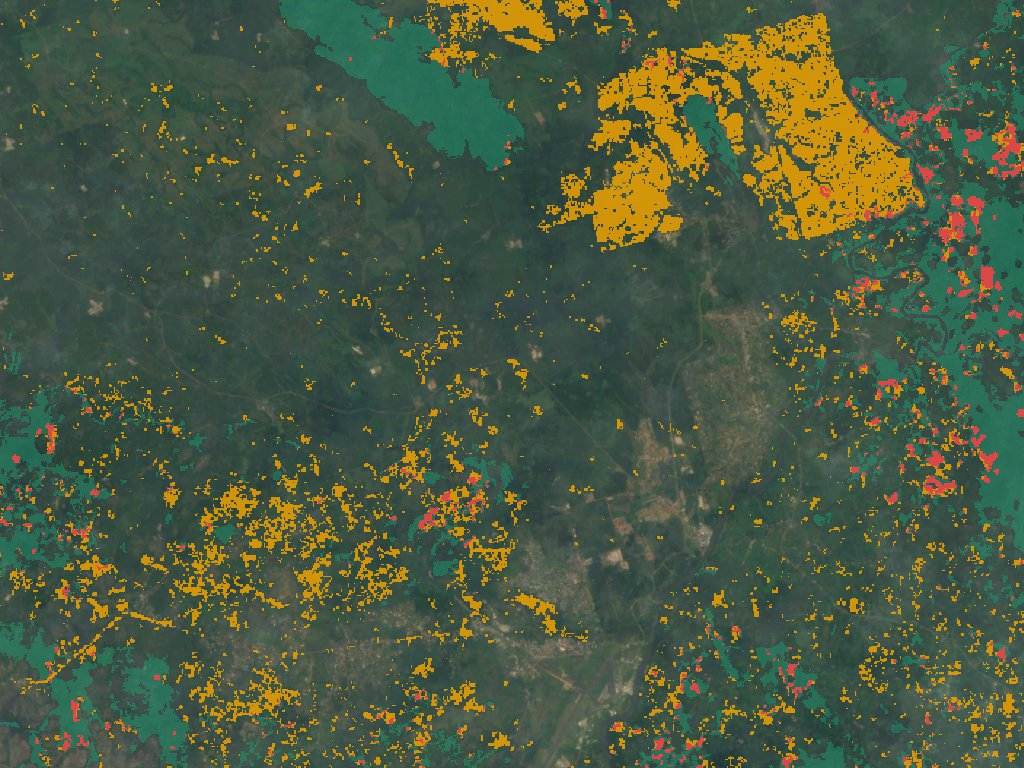
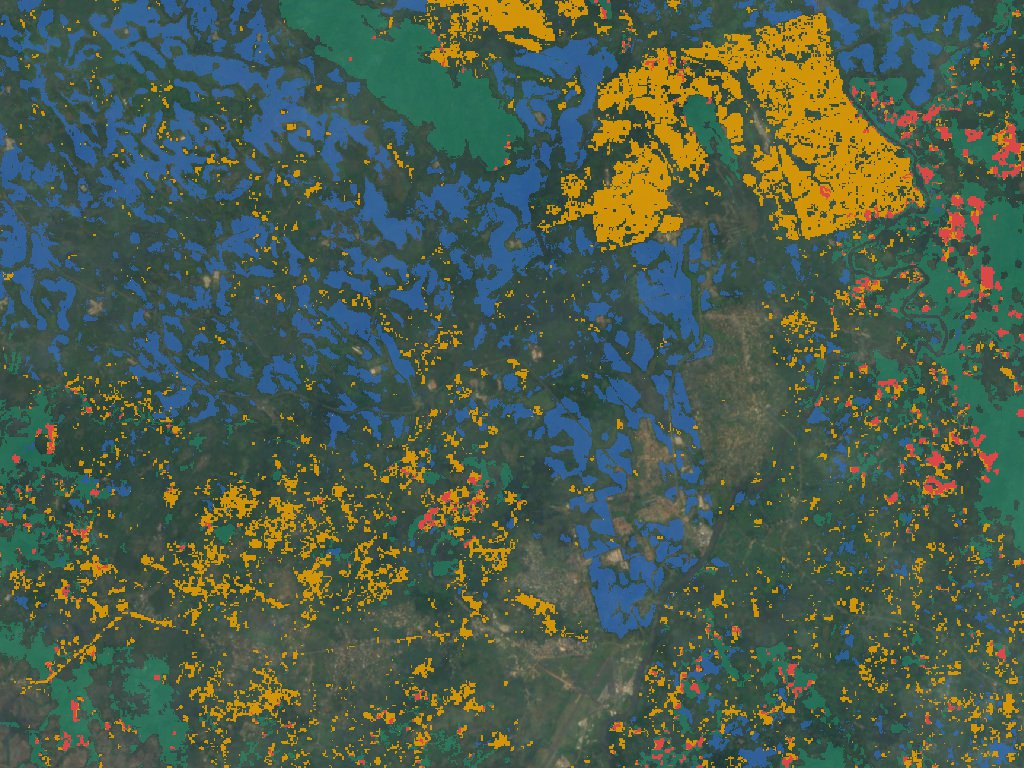
Indicateur EUDR des bassins v1.1 : carte de l'hévéa (Forest Data Partnership)
- Outil eudr_bassins.R : lecture partielle de la carte de probabilité d'hévéa
  FDP 2026a (10 m, 2020 et 2024) sur le stockage Google « requester pays »
  (projet Google Cloud de RubberSignal, compte gcloud, aucun fichier de clé ;
  en-tête d'accès posé après JRC/Hansen et retiré aussitôt). Seuil 0,5.
- Nouvelles mesures : hévéa 2020 et 2024, nouvel hévéa, nouvel hévéa sur
  forêt 2020. Chiffres v1 inchangés. Relances automatiques en cas de coupure.
- Site : couche bleue « hévéa » sur les vues, deux indicateurs et trois
  colonnes dans le terminal, mention « Produced by Google for the Forest
  Data Partnership » (CC BY 4.0), page Méthode et journal des versions.
- Tests : sources, cohérence des surfaces, absence de jeton publié.

diff --git a/site/methode.html b/site/methode.html
@@ -81,12 +81,17 @@ Gap to CI           = (origin price ÷ Côte d'Ivoire price, same month) − 1</
     <p><span lang="fr">Production, superficie récoltée et rendement du caoutchouc naturel (FAOSTAT, produit 836) pour les producteurs africains, les grands producteurs asiatiques et les totaux monde, Afrique et Asie, depuis 2000. La FAO publie une fois par an ; la chaîne ne télécharge que si une nouvelle publication est parue. Chaque valeur garde le drapeau de la FAO : valeur officielle ou d'organisation internationale (nature O), estimation ou imputation de la FAO (nature E).</span><span lang="en">Natural rubber production, harvested area and yield (FAOSTAT, item 836) for African producers, the main Asian producers and the world, Africa and Asia totals, since 2000. FAO publishes once a year; the pipeline downloads only when a new release is out. Each value keeps its FAO flag: official or international-organisation value (nature O), FAO estimate or imputation (nature E).</span></p>
     <p><span lang="fr"><strong>Vues satellite :</strong> mosaïque Sentinel-2 sans nuages EOxCloudless 2016 (10 m), la plus récente sous licence libre (les années suivantes sont réservées à un usage non commercial). Les images sont enregistrées sur le site : le visiteur ne contacte aucun serveur tiers. Chaque vue est centrée sur des coordonnées publiques et vérifiée à l'œil ; sa légende décrit ce qui est visible et cite la source qui identifie le site. Ces images montrent le paysage de 2016 ; elles ne servent ni à mesurer une surface ni à vérifier une conformité EUDR.</span><span lang="en"><strong>Satellite views:</strong> the EOxCloudless 2016 cloud-free Sentinel-2 mosaic (10 m), the latest under an open licence (later years are for non-commercial use only). Images are stored on the site: visitors contact no third-party server. Each view is centred on public coordinates and checked by eye; its caption describes what is visible and cites the source identifying the site. These images show the 2016 landscape; they are not used to measure areas or to check EUDR compliance.</span></p>
 
-    <h3 id="eudr"><span lang="fr">2 quater. Indicateur de risque EUDR des bassins (v1)</span><span lang="en">2c. Basin EUDR risk indicator (v1)</span></h3>
+    <h3 id="eudr"><span lang="fr">2 quater. Indicateur de risque EUDR des bassins (v1.1)</span><span lang="en">2c. Basin EUDR risk indicator (v1.1)</span></h3>
     <div class="formula"><span lang="fr">Forêt 2020        = JRC Global Forest Cover 2020 v4 = forêt (10 m)
 Perte après 2020  = Hansen Global Forest Change v1.12, année de perte 2021 à 2024 (30 m)
-Indicateur EUDR   = surface « forêt 2020 » ET « perte après 2020 », en ha et en % de la forêt 2020</span><span lang="en">2020 forest       = JRC Global Forest Cover 2020 v4 = forest (10 m)
+Indicateur EUDR   = surface « forêt 2020 » ET « perte après 2020 », en ha et en % de la forêt 2020
+Hévéa (année a)   = probabilité Forest Data Partnership 2026a ≥ 0,5 (10 m), a = 2020 et 2024
+Nouvel hévéa sur forêt 2020 = « forêt 2020 » ET hévéa 2024 ET pas hévéa 2020, en ha</span><span lang="en">2020 forest       = JRC Global Forest Cover 2020 v4 = forest (10 m)
 Loss after 2020   = Hansen Global Forest Change v1.12, loss year 2021 to 2024 (30 m)
-EUDR indicator    = area "2020 forest" AND "loss after 2020", in ha and % of 2020 forest</span></div>
+EUDR indicator    = area "2020 forest" AND "loss after 2020", in ha and % of 2020 forest
+Rubber (year y)   = Forest Data Partnership 2026a probability ≥ 0.5 (10 m), y = 2020 and 2024
+New rubber on 2020 forest = "2020 forest" AND rubber 2024 AND not rubber 2020, in ha</span></div>
+    <p><span lang="fr"><strong>Couche hévéa (v1.1).</strong> La carte de probabilité de l'hévéa du Forest Data Partnership (modèle 2026a, produite par Google pour le Forest Data Partnership, CC BY 4.0) localise les plantations elles-mêmes. Le seuil de 0,5 est un choix de RubberSignal Technologies : le catalogue n'en recommande aucun. Le « nouvel hévéa sur forêt 2020 » repère une plantation probable établie sur une forêt après la date de référence EUDR ; c'est la mesure la plus directe du risque propre au caoutchouc. <strong>Limites :</strong> une probabilité de modèle n'est pas une observation de terrain ; un jeune hévéa peut être mal détecté ; l'écart entre 2020 et 2024 mêle plantations nouvelles, replantations et erreurs du modèle.</span><span lang="en"><strong>Rubber layer (v1.1).</strong> The Forest Data Partnership rubber probability map (model 2026a, produced by Google for the Forest Data Partnership, CC BY 4.0) locates the plantations themselves. The 0.5 threshold is a RubberSignal Technologies choice: the catalogue recommends none. "New rubber on 2020 forest" flags a probable plantation established on forest after the EUDR cut-off date; it is the most direct measure of rubber-specific risk. <strong>Limits:</strong> a model probability is not a field observation; young rubber may be missed; the 2020–2024 difference mixes new plantings, replanting and model errors.</span></p>
     <p><span lang="fr">Calculé dans un carré d'environ 28 000 ha autour de chaque bassin (l'emprise de la vue satellite), sur la grille JRC. La carte JRC est la carte de référence publiée par la Commission pour l'EUDR (non contraignante) ; elle ne classe pas les plantations d'hévéa en forêt. Une perte après 2020 hors forêt 2020 correspond surtout aux replantations et aux cultures. <strong>Limites :</strong> le carré dépasse les limites de toute exploitation et l'indicateur ne désigne aucun acteur ; une perte de couvert n'est pas une preuve de déforestation (coupe, chablis, erreur de classement) ; résolutions différentes (10 et 30 m). C'est un indicateur de risque pour orienter une diligence raisonnée, pas une vérification de conformité.</span><span lang="en">Calculated within a square of about 28,000 ha around each basin (the satellite view footprint), on the JRC grid. The JRC map is the reference map published by the Commission for the EUDR (non-binding); it does not class rubber plantations as forest. Loss after 2020 outside 2020 forest is mostly replanting and crops. <strong>Limits:</strong> the square extends beyond any single operation and the indicator points to no actor; tree cover loss is not proof of deforestation (felling, windthrow, misclassification); different resolutions (10 and 30 m). It is a risk indicator to guide due diligence, not a compliance check.</span></p>
 
     <h2 id="rsci"><span lang="fr">3. RSCI : part du prix international reçue par le planteur (v2.1)</span><span lang="en">3. RSCI: share of the international price received by the farmer (v2.1)</span></h2>
@@ -120,6 +125,7 @@ RSCI (%) = dry farmer price ÷ World Bank TSR20 of the previous month × 100</sp
         <tr><td class="l">EOxCloudless 2016 (EOX IT Services, <span lang="fr">données Copernicus Sentinel</span><span lang="en">Copernicus Sentinel data</span>)</td><td class="l"><span lang="fr">Vues satellite</span><span lang="en">Satellite views</span></td><td class="l">CC BY 4.0</td></tr>
         <tr><td class="l"><span lang="fr">Commission européenne, JRC (forêt 2020, v4)</span><span lang="en">European Commission, JRC (2020 forest, v4)</span></td><td class="l"><span lang="fr">Carte de référence EUDR</span><span lang="en">EUDR reference map</span></td><td class="l">CC BY 4.0 (doi:10.2905/JRC.3KATEH8)</td></tr>
         <tr><td class="l">University of Maryland, Hansen et al. (Global Forest Change v1.12)</td><td class="l"><span lang="fr">Pertes de couvert arboré par an</span><span lang="en">Yearly tree cover loss</span></td><td class="l">CC BY 4.0</td></tr>
+        <tr><td class="l">Forest Data Partnership (Community models 2026a)</td><td class="l"><span lang="fr">Probabilité d'hévéa, 10 m (produite par Google pour le Forest Data Partnership)</span><span lang="en">Rubber probability, 10 m (produced by Google for the Forest Data Partnership)</span></td><td class="l">CC BY 4.0</td></tr>
         <tr><td class="l">Natural Earth</td><td class="l"><span lang="fr">Fond de carte</span><span lang="en">Base map</span></td><td class="l"><span lang="fr">Domaine public</span><span lang="en">Public domain</span></td></tr>
         <tr><td class="l"><span lang="fr">Google News, éditeurs (flux RSS)</span><span lang="en">Google News, publishers (RSS feeds)</span></td><td class="l"><span lang="fr">Titres d'actualité</span><span lang="en">News headlines</span></td><td class="l"><span lang="fr">Titre, éditeur et lien seulement</span><span lang="en">Headline, publisher and link only</span></td></tr>
         <tr><td class="l">Open-Meteo</td><td class="l"><span lang="fr">Météo</span><span lang="en">Weather</span></td><td class="l">CC BY 4.0</td></tr>
@@ -141,6 +147,7 @@ RSCI (%) = dry farmer price ÷ World Bank TSR20 of the previous month × 100</sp
     <div class="scroll"><table class="data">
       <thead><tr><th class="l">Version</th><th class="l">Date</th><th class="l"><span lang="fr">Changement</span><span lang="en">Change</span></th></tr></thead>
       <tbody>
+        <tr><td class="l"><span lang="fr">EUDR bassins v1.1</span><span lang="en">EUDR basins v1.1</span></td><td class="l">2026-11-26</td><td class="l wrapc"><span lang="fr">Ajout de la carte de l'hévéa (Forest Data Partnership 2026a, seuil 0,5) : surfaces d'hévéa 2020 et 2024, nouvel hévéa sur forêt 2020, couleur bleue sur les vues. Chiffres de la v1 inchangés.</span><span lang="en">Rubber map added (Forest Data Partnership 2026a, 0.5 threshold): rubber area 2020 and 2024, new rubber on 2020 forest, blue layer on the views. v1 figures unchanged.</span></td></tr>
         <tr><td class="l"><span lang="fr">EUDR bassins v1</span><span lang="en">EUDR basins v1</span></td><td class="l">2026-11-18</td><td class="l wrapc"><span lang="fr">Création : forêt 2020 (JRC v4) croisée avec les pertes de couvert 2021-2024 (Hansen v1.12) dans quatre bassins ; couches sur les vues satellite.</span><span lang="en">Creation: 2020 forest (JRC v4) crossed with 2021-2024 tree cover loss (Hansen v1.12) in four basins; layers on the satellite views.</span></td></tr>
         <tr><td class="l"><span lang="fr">Production FAOSTAT v1</span><span lang="en">FAOSTAT Production v1</span></td><td class="l">2026-11-18</td><td class="l wrapc"><span lang="fr">Création : production, surface et rendement par pays (FAOSTAT, depuis 2000), carte des pays producteurs, vues satellite EOxCloudless 2016 de quatre bassins.</span><span lang="en">Creation: production, area and yield by country (FAOSTAT, since 2000), map of producing countries, EOxCloudless 2016 satellite views of four basins.</span></td></tr>
         <tr><td class="l"><span lang="fr">Simulateur de budget v1</span><span lang="en">Budget simulator v1</span></td><td class="l">2026-11-18</td><td class="l wrapc"><span lang="fr">Création : coût d'un programme d'achats mensuels, sans tendance, sur la volatilité v1 du TSR20 Banque mondiale.</span><span lang="en">Creation: cost of a monthly purchase programme, drift-free, on the World Bank TSR20 volatility v1.</span></td></tr>

diff --git a/site/assets/rs-terminal.js b/site/assets/rs-terminal.js
@@ -384,6 +384,7 @@
     var lien = $('sat-lien'); lien.href = src; lien.title = t('Ouvrir l’image en taille réelle', 'Open the full-size image');
     var lg = clear($('sat-leg-eudr')); lg.hidden = !eudr;
     if (eudr) [['eudr-foret', t('forêt au 31/12/2020 (JRC)', 'forest on 31/12/2020 (JRC)')],
+               ['eudr-hevea', t('hévéa en 2024 (Forest Data Partnership)', 'rubber in 2024 (Forest Data Partnership)')],
                ['eudr-rouge', t('perte de couvert après 2020 sur cette forêt', 'tree cover loss after 2020 on that forest')],
                ['eudr-jaune', t('perte après 2020 hors forêt (plantations, cultures)', 'loss after 2020 outside forest (plantations, crops)')]].forEach(function (x) {
       var s = RS.el('span', null, null, lg); RS.el('i', x[0], null, s); RS.el('span', null, x[1], s);
@@ -392,7 +393,7 @@
       : t(z.legende_fr, z.legende_en)) + t(' Largeur de l’image : environ ', ' Image width: about ') + RS.num(z.largeur_km, 0) +
       t(' km. Cliquez sur l’image pour la voir en taille réelle.', ' km. Click the image to see it full size.');
     var cr = clear($('sat-credit'));
-    RS.el('span', null, t('Image : ', 'Image: ') + P.satellite_credit + (eudr ? '. ' + E.sources.foret + '. ' + E.sources.pertes : '') +
+    RS.el('span', null, t('Image : ', 'Image: ') + P.satellite_credit + (eudr ? '. ' + E.sources.foret + '. ' + E.sources.pertes + (E.sources.hevea ? '. ' + E.sources.hevea : '') : '') +
       t('. Position : ', '. Location: ') + z.coordonnees + '. ', cr);
     if (!eudr) { var a = RS.el('a', null, t('Source sur ce site de production', 'Source on this production site'), cr);
                  a.href = z.source; a.rel = 'noopener noreferrer nofollow'; a.target = '_blank'; }
@@ -415,6 +416,12 @@
       RS.pct(eb.part_perte_foret_pct, 1) + t(' de la forêt 2020 (Hansen, 2021-2024)', ' of 2020 forest (Hansen, 2021-2024)'), 'E');
     kpi(k, t('Perte après 2020 hors forêt', 'Loss after 2020 outside forest'), RS.num(eb.perte_apres_2020_hors_foret_ha, 0), 'ha',
       t('plantations, cultures, jachères : non visées par l’EUDR comme déforestation', 'plantations, crops, fallows: not EUDR deforestation'), 'E');
+    if (eb.hevea_2024_ha != null) {
+      kpi(k, t('Hévéa en 2024', 'Rubber in 2024'), RS.int(eb.hevea_2024_ha), 'ha',
+        RS.pct(eb.part_hevea_2024_pct, 1) + t(' du carré ; ', ' of the square; ') + RS.int(eb.hevea_2020_ha) + t(' ha en 2020 (FDP)', ' ha in 2020 (FDP)'), 'E');
+      kpi(k, t('Nouvel hévéa sur forêt 2020', 'New rubber on 2020 forest'), RS.num(eb.hevea_nouveau_sur_foret_2020_ha, 1), 'ha',
+        t('plantation probable sur une forêt après la date de référence EUDR', 'probable planting on forest after the EUDR cut-off date'), 'E');
+    }
     var ans = Object.keys(eb.perte_par_an);
     C.bars($('eudr-bars'), {
       x: ans, xFmt: function (a) { return String(a); }, values: ans.map(function (a) { return eb.perte_par_an[a]; }), color: 'var(--s1)',
@@ -430,8 +437,11 @@
       { label: t('Perte après 2020 sur forêt (ha)', 'Loss after 2020 on forest (ha)'), get: function (b) { return RS.num(b.perte_apres_2020_foret_ha, 0); } },
       { label: t('en % de la forêt 2020', '% of 2020 forest'), get: function (b) { return RS.pct(b.part_perte_foret_pct, 1); } },
       { label: t('Perte après 2020 hors forêt (ha)', 'Loss after 2020 outside forest (ha)'), get: function (b) { return RS.num(b.perte_apres_2020_hors_foret_ha, 0); } },
-      { label: t('Perte 2001-2020 (ha)', 'Loss 2001-2020 (ha)'), get: function (b) { return RS.int(b.perte_2001_2020_ha); } }
-    ], E.bassins, t('Les quatre zones (nature E : calcul RubberSignal Technologies sur données JRC et UMD)', 'The four areas (nature E: RubberSignal Technologies calculation on JRC and UMD data)'), true);
+      { label: t('Perte 2001-2020 (ha)', 'Loss 2001-2020 (ha)'), get: function (b) { return RS.int(b.perte_2001_2020_ha); } },
+      { label: t('Hévéa 2020 (ha)', 'Rubber 2020 (ha)'), get: function (b) { return b.hevea_2020_ha == null ? '–' : RS.int(b.hevea_2020_ha); } },
+      { label: t('Hévéa 2024 (ha)', 'Rubber 2024 (ha)'), get: function (b) { return b.hevea_2024_ha == null ? '–' : RS.int(b.hevea_2024_ha); } },
+      { label: t('Nouvel hévéa sur forêt 2020 (ha)', 'New rubber on 2020 forest (ha)'), get: function (b) { return b.hevea_nouveau_sur_foret_2020_ha == null ? '–' : RS.num(b.hevea_nouveau_sur_foret_2020_ha, 1); } }
+    ], E.bassins, t('Les quatre zones (nature E : calcul RubberSignal Technologies sur données JRC, UMD et Forest Data Partnership)', 'The four areas (nature E: RubberSignal Technologies calculation on JRC, UMD and Forest Data Partnership data)'), true);
   }
   document.addEventListener('click', function (ev) {
     var b = ev.target.closest ? ev.target.closest('[data-sat-mode]') : null;

diff --git a/site/terminal.html b/site/terminal.html
@@ -177,8 +177,8 @@
         <div id="eudr-bars"></div>
         <div id="t-eudr"></div>
         <div class="callout">
-          <span lang="fr"><strong>Ce que cet indicateur dit, et ce qu'il ne dit pas.</strong> Il mesure, dans un carré d'environ 28 000 ha autour de chaque bassin, la surface classée forêt au 31/12/2020 par la carte de référence de la Commission (JRC) qui a perdu son couvert arboré ensuite (Hansen, UMD). Le carré dépasse les limites de toute exploitation : l'indicateur ne désigne aucun acteur. Une perte de couvert n'est pas une preuve de déforestation (coupe, chablis, erreur de classement). C'est un indicateur de risque pour orienter une diligence raisonnée EUDR, qui reste à faire parcelle par parcelle.</span>
-          <span lang="en"><strong>What this indicator says, and what it does not.</strong> Within a square of about 28,000 ha around each basin, it measures the area classed as forest on 31/12/2020 by the Commission's reference map (JRC) that later lost its tree cover (Hansen, UMD). The square extends beyond any single operation: the indicator points to no actor. Tree cover loss is not proof of deforestation (felling, windthrow, misclassification). It is a risk indicator to guide EUDR due diligence, which must still be done plot by plot.</span>
+          <span lang="fr"><strong>Ce que cet indicateur dit, et ce qu'il ne dit pas.</strong> Il mesure, dans un carré d'environ 28 000 ha autour de chaque bassin, la surface classée forêt au 31/12/2020 par la carte de référence de la Commission (JRC) qui a perdu son couvert arboré ensuite (Hansen, UMD). Le carré dépasse les limites de toute exploitation : l'indicateur ne désigne aucun acteur. Une perte de couvert n'est pas une preuve de déforestation (coupe, chablis, erreur de classement). C'est un indicateur de risque pour orienter une diligence raisonnée EUDR, qui reste à faire parcelle par parcelle. La couche bleue (Forest Data Partnership) localise l'hévéa en 2024 : le « nouvel hévéa sur forêt 2020 » est la mesure la plus directe du risque propre au caoutchouc ; c'est une probabilité de modèle, pas une observation de terrain.</span>
+          <span lang="en"><strong>What this indicator says, and what it does not.</strong> Within a square of about 28,000 ha around each basin, it measures the area classed as forest on 31/12/2020 by the Commission's reference map (JRC) that later lost its tree cover (Hansen, UMD). The square extends beyond any single operation: the indicator points to no actor. Tree cover loss is not proof of deforestation (felling, windthrow, misclassification). It is a risk indicator to guide EUDR due diligence, which must still be done plot by plot. The blue layer (Forest Data Partnership) locates rubber in 2024: "new rubber on 2020 forest" is the most direct measure of rubber-specific risk; it is a model probability, not a field observation.</span>
         </div>
       </div>
       <div class="t-grid two">

diff --git a/site/data/eudr_bassins.js b/site/data/eudr_bassins.js
@@ -1,10 +1,11 @@
 window.RS_EUDR = {
-  "version": "EUDR bassins v1",
-  "date_calcul": "2026-11-18",
+  "version": "EUDR bassins v1.1",
+  "date_calcul": "2026-11-26",
   "date_reference_eudr": "2020-12-31",
   "sources": {
     "foret": "JRC Global Forest Cover 2020, version 4 (10 m), European Commission, Joint Research Centre, doi:10.2905/JRC.3KATEH8, CC BY 4.0",
     "pertes": "Hansen et al. (2013), Global Forest Change 2024 v1.12, University of Maryland, CC BY 4.0",
+    "hevea": "Forest Data Partnership (2026), Community models 2026a, rubber probability (10 m), Produced by Google for the Forest Data Partnership, CC BY 4.0",
     "image": "EOxCloudless 2016, EOX IT Services GmbH (Contains modified Copernicus Sentinel data 2016), CC BY 4.0"
   },
   "bassins": [
@@ -48,7 +49,13 @@ window.RS_EUDR = {
         "2024": 105.2
       },
       "part_foret_pct": 11.1,
-      "part_perte_foret_pct": 12.81
+      "part_perte_foret_pct": 12.81,
+      "hevea_seuil": 0.5,
+      "hevea_2020_ha": 4287,
+      "hevea_2024_ha": 3757,
+      "part_hevea_2024_pct": 13.3,
+      "hevea_nouveau_ha": 1410,
+      "hevea_nouveau_sur_foret_2020_ha": 7.5
     },
     {
       "id": "toupah",
@@ -90,7 +97,13 @@ window.RS_EUDR = {
         "2024": 0.8
       },
       "part_foret_pct": 2,
-      "part_perte_foret_pct": 3.49
+      "part_perte_foret_pct": 3.49,
+      "hevea_seuil": 0.5,
+      "hevea_2020_ha": 6065,
+      "hevea_2024_ha": 9810,
+      "part_hevea_2024_pct": 34.7,
+      "hevea_nouveau_ha": 4313.9,
+      "hevea_nouveau_sur_foret_2020_ha": 6.5
     },
     {
       "id": "niete",
@@ -132,7 +145,13 @@ window.RS_EUDR = {
         "2024": 303.7
       },
       "part_foret_pct": 28.3,
-      "part_perte_foret_pct": 9.02
+      "part_perte_foret_pct": 9.02,
+      "hevea_seuil": 0.5,
+      "hevea_2020_ha": 711,
+      "hevea_2024_ha": 2263,
+      "part_hevea_2024_pct": 8,
+      "hevea_nouveau_ha": 1731.2,
+      "hevea_nouveau_sur_foret_2020_ha": 0
     },
     {
       "id": "soubre",
@@ -174,7 +193,13 @@ window.RS_EUDR = {
         "2024": 0
       },
       "part_foret_pct": 1.1,
-      "part_perte_foret_pct": 2.62
+      "part_perte_foret_pct": 2.62,
+      "hevea_seuil": 0.5,
+      "hevea_2020_ha": 1029,
+      "hevea_2024_ha": 2418,
+      "part_hevea_2024_pct": 8.6,
+      "hevea_nouveau_ha": 1464.4,
+      "hevea_nouveau_sur_foret_2020_ha": 3.9
     }
   ]
 };

diff --git a/site/assets/rs.css b/site/assets/rs.css
@@ -352,4 +352,4 @@ a.news-title:hover, a.news-title:focus-visible { text-decoration: underline; }
 .sat-img { width: 100%; height: auto; display: block; border-radius: 8px; margin-top: 12px; background: var(--surface-2); aspect-ratio: 4 / 3; object-fit: cover; }
 .sat-credit { font-size: 11.5px; color: var(--muted); margin-top: 6px; overflow-wrap: anywhere; }
 .sat-mode { margin-top: 10px; }
-.legende-q i.eudr-foret { background: #1baf7a; } .legende-q i.eudr-rouge { background: #e34948; } .legende-q i.eudr-jaune { background: #eda100; }
+.legende-q i.eudr-foret { background: #1baf7a; } .legende-q i.eudr-rouge { background: #e34948; } .legende-q i.eudr-jaune { background: #eda100; } .legende-q i.eudr-hevea { background: #2f6fd0; }
